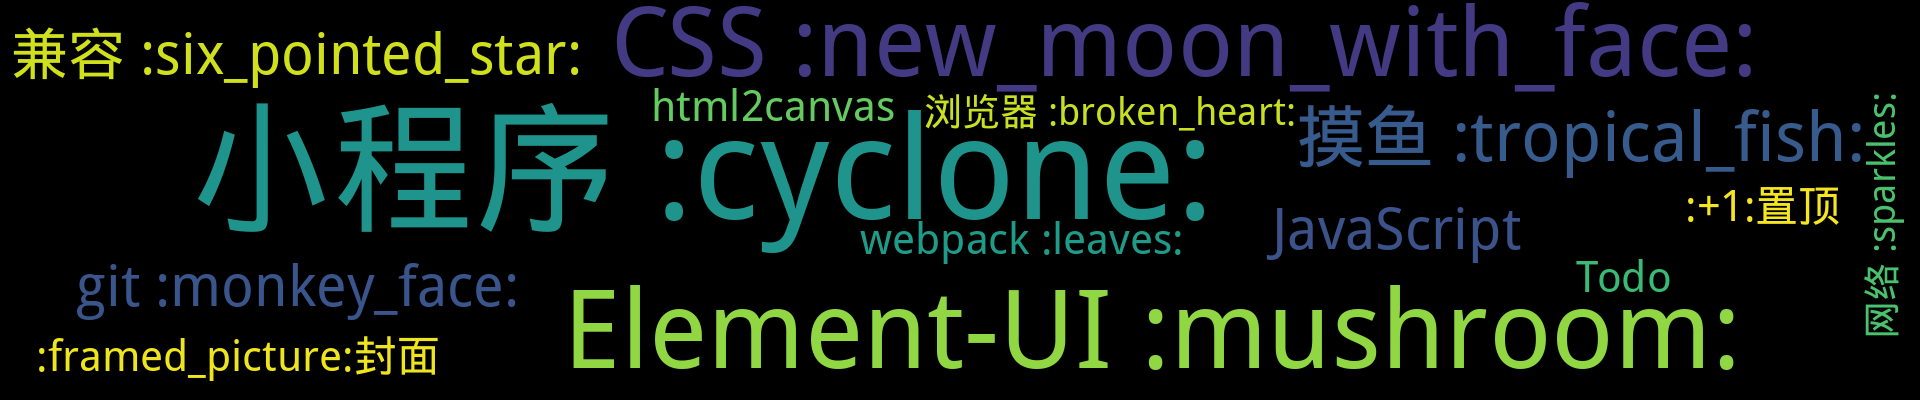
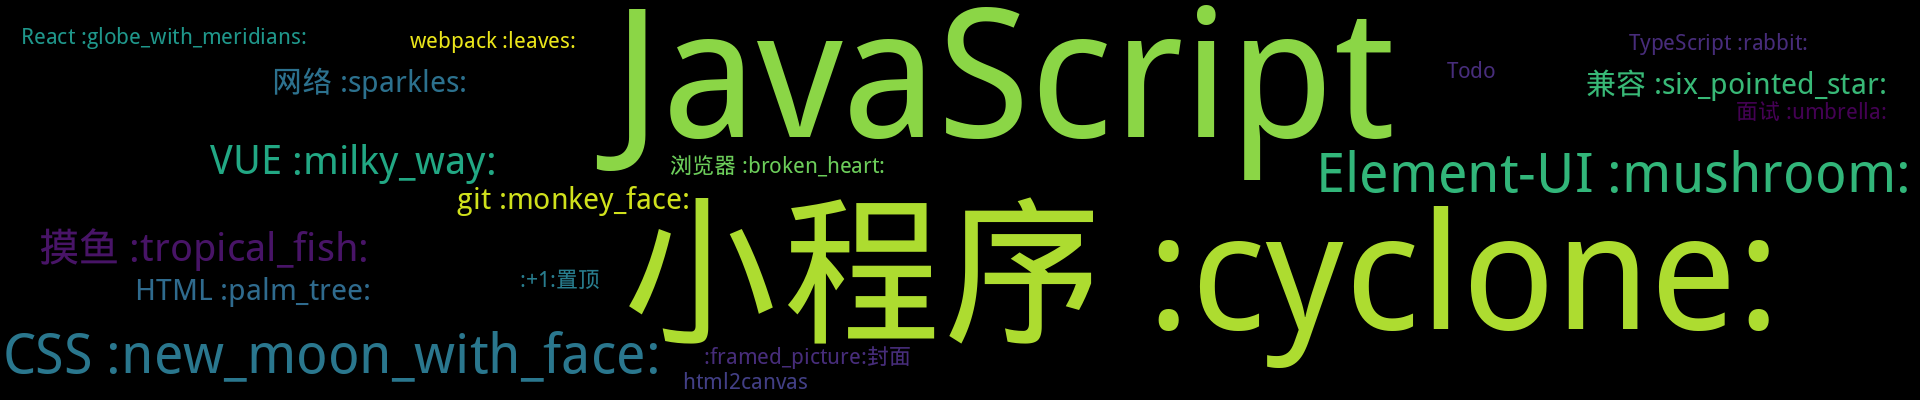
Update from Github Action

Changed region(s): [[0.0, 0.0, 1.0, 0.99], [0.9688, 0.66, 1.0, 0.84]]

diff --git a/README.md b/README.md
@@ -1,9 +1,9 @@
 
 
 <p align='center'>
-    <img src="https://badgen.net/badge/labels/25"/>
+    <img src="https://badgen.net/badge/labels/28"/>
     <img src="https://badgen.net/github/issues/smileyby/ghiblog"/>
-    <img src="https://badgen.net/badge/last-commit/2021-05-25 10:14:50"/>
+    <img src="https://badgen.net/badge/last-commit/2021-05-26 01:34:14"/>
     <img src="https://badgen.net/github/forks/smileyby/ghiblog"/>
     <img src="https://badgen.net/github/stars/smileyby/ghiblog"/>
     <img src="https://badgen.net/github/watchers/smileyby/ghiblog"/>
@@ -17,65 +17,92 @@
 </p>
 
 
+
+<p align='center'>
+<a href='https://github.com/smileyby/notes-copy/issues/1#issuecomment-848390534'>
+<img src='https://user-images.githubusercontent.com/16968442/119589467-6e535100-be05-11eb-8847-0131eb266158.png' width='50%' alt='
+[ Shine]'>
+</a>
+</p>
+<p align='center'>
+<span>
+[ Shine]</span>
+</p>
+
+    
 ## 置顶 :thumbsup: 
-- [封面图](https://github.com/smileyby/notes-copy/issues/1)  <sup>0 :speech_balloon:</sup>  	 
+- [封面图](https://github.com/smileyby/notes-copy/issues/1)  <sup>1 :speech_balloon:</sup>  	 
 ## 最新 :new: 
 
-#### [CSS：主题快捷切换](https://github.com/smileyby/notes-copy/issues/55) <sup>0 :speech_balloon:</sup> 	 2021-05-25 10:14:21
+#### [网络：HTTP状态码](https://github.com/smileyby/notes-copy/issues/88) <sup>0 :speech_balloon:</sup> 	 2021-05-25 10:41:11
 
-:label: : [CSS :new_moon_with_face:](https://github.com/smileyby/ghiblog/labels/CSS%20%3Anew_moon_with_face%3A)
+:label: : [网络 :sparkles:](https://github.com/smileyby/ghiblog/labels/%E7%BD%91%E7%BB%9C%20%3Asparkles%3A)
 
-https://uglyduck.ca/quick-dirty-theme-switcher/
+## HTTP状态码（HTTP STATUS CODE）
 
-[更多>>>](https://github.com/smileyby/notes-copy/issues/55)
+> HTTP状态码：是用以表示网页服务器超文本传输协议响应状态的3位数字代码。它是由RFC2616规范定义的，并得到REC2518、RFC2817、RFC2295、RFC2774与RFC4918等规范扩展。所有状态码的第一个数字代表响应
 
----
-
-
-#### [CSS：flex两栏布局，不设置父元素宽度，内部子元素会超出](https://github.com/smileyby/notes-copy/issues/54) <sup>0 :speech_balloon:</sup> 	 2021-05-25 10:13:56
-
-:label: : [CSS :new_moon_with_face:](https://github.com/smileyby/ghiblog/labels/CSS%20%3Anew_moon_with_face%3A)
-
-https://blog.csdn.net/zgh0711/article/details/78270555?utm_source=blogxgwz9
-
-[更多>>>](https://github.com/smileyby/notes-copy/issues/54)
+[更多>>>](https://github.com/smileyby/notes-copy/issues/88)
 
 ---
 
 
-#### [CSS：炫酷的CSS效果](https://github.com/smileyby/notes-copy/issues/53) <sup>0 :speech_balloon:</sup> 	 2021-05-25 10:13:33
+#### [JS：class类声明的静态方法只能内部使用](https://github.com/smileyby/notes-copy/issues/87) <sup>0 :speech_balloon:</sup> 	 2021-05-25 10:40:14
 
-:label: : [CSS :new_moon_with_face:](https://github.com/smileyby/ghiblog/labels/CSS%20%3Anew_moon_with_face%3A)
-
-https://juejin.im/post/5efab10ff265da22e610d2d0
-
-[更多>>>](https://github.com/smileyby/notes-copy/issues/53)
-
----
+:label: : [JavaScript](https://github.com/smileyby/ghiblog/labels/JavaScript)
 
 
-#### [CSS：font-weight 设置数值在不同浏览器中解析效果不一致](https://github.com/smileyby/notes-copy/issues/52) <sup>0 :speech_balloon:</sup> 	 2021-05-25 10:13:09
+class Chameleon {
+    static colorChange(newColor) {
+        this.newColor = newColor
+        return this.newColor
+    }
+    constructor({newCo
 
-:label: : [CSS :new_moon_with_face:](https://github.com/smileyby/ghiblog/labels/CSS%20%3Anew_moon_with_face%3A)
-
-/* 原本以为这是加粗效果，但在部分浏览器中并不是加粗 */
-font-weight: 700;
-
-/* 如果想要加粗效果, 靠谱写法如下 */
-font-weight: bold;
-
-[更多>>>](https://github.com/smileyby/notes-copy/issues/52)
+[更多>>>](https://github.com/smileyby/notes-copy/issues/87)
 
 ---
 
 
-#### [CSS：图片加载失败兜底方案实现--转自张鑫旭博客](https://github.com/smileyby/notes-copy/issues/51) <sup>0 :speech_balloon:</sup> 	 2021-05-25 10:12:45
+#### [JS：模板字符串的扩展功能-实现函数调用](https://github.com/smileyby/notes-copy/issues/86) <sup>0 :speech_balloon:</sup> 	 2021-05-25 10:39:31
 
-:label: : [CSS :new_moon_with_face:](https://github.com/smileyby/ghiblog/labels/CSS%20%3Anew_moon_with_face%3A)
+:label: : [JavaScript](https://github.com/smileyby/ghiblog/labels/JavaScript)
 
-参考链接：https://www.zhangxinxu.com/study/202010/image-error-show-alt-demo.php
+function getPersonInfo(one, two, three) {
+  console.log(one);
+  console.log(two);
+  console.log(three);
+}
 
-[更多>>>](https://github.com/smileyby/notes-copy/issues/51)
+const person = 'Lydia';
+const age = 
+
+[更多>>>](https://github.com/smileyby/notes-copy/issues/86)
+
+---
+
+
+#### [JS：localStorage 分域名存储](https://github.com/smileyby/notes-copy/issues/85) <sup>0 :speech_balloon:</sup> 	 2021-05-25 10:37:15
+
+:label: : [JavaScript](https://github.com/smileyby/ghiblog/labels/JavaScript)
+
+localStorage 存储的值，是根据域名进行隔离的，不同域名下不会互相影响
+
+[更多>>>](https://github.com/smileyby/notes-copy/issues/85)
+
+---
+
+
+#### [JS：canvas动态获取绘制文字的宽度 CanvasRenderingContext2D.measureText()](https://github.com/smileyby/notes-copy/issues/84) <sup>0 :speech_balloon:</sup> 	 2021-05-25 10:36:47
+
+:label: : [JavaScript](https://github.com/smileyby/ghiblog/labels/JavaScript)
+
+场景：项目海报生成的同一行文字，字体大小不同，根据设计稿给定位置绘制后会发生重叠
+需要检测前一串文字的长度，动态计算后面文字的位置
+方案：CanvasRenderingContext2D.measureText() 这个方法完美解决，而且兼容性还棒棒哒
+参考：https://developer
+
+[更多>>>](https://github.com/smileyby/notes-copy/issues/84)
 
 ---
 
@@ -92,7 +119,7 @@ font-weight: bold;
 <details>
 <summary>:+1:置顶	<sup>1:newspaper:</sup></summary>
 
-- [封面图](https://github.com/smileyby/notes-copy/issues/1)  <sup>0 :speech_balloon:</sup>  	 
+- [封面图](https://github.com/smileyby/notes-copy/issues/1)  <sup>1 :speech_balloon:</sup>  	 
 
 
 </details>
@@ -100,7 +127,7 @@ font-weight: bold;
 <details>
 <summary>:framed_picture:封面	<sup>1:newspaper:</sup></summary>
 
-- [封面图](https://github.com/smileyby/notes-copy/issues/1)  <sup>0 :speech_balloon:</sup>  	 
+- [封面图](https://github.com/smileyby/notes-copy/issues/1)  <sup>1 :speech_balloon:</sup>  	 
 
 
 </details>
@@ -113,8 +140,10 @@ font-weight: bold;
 </details>
 
 <details>
-<summary>CSS :new_moon_with_face:	<sup>7:newspaper:</sup></summary>
+<summary>CSS :new_moon_with_face:	<sup>9:newspaper:</sup></summary>
 
+- [CSS：object-fit](https://github.com/smileyby/notes-copy/issues/58)  <sup>0 :speech_balloon:</sup>  	 
+- [CSS：border绘制不同的图形](https://github.com/smileyby/notes-copy/issues/57)  <sup>0 :speech_balloon:</sup>  	 
 - [CSS：各大网站实现灰度的方法](https://github.com/smileyby/notes-copy/issues/56)  <sup>0 :speech_balloon:</sup>  	 
 - [CSS：主题快捷切换](https://github.com/smileyby/notes-copy/issues/55)  <sup>0 :speech_balloon:</sup>  	 
 - [CSS：flex两栏布局，不设置父元素宽度，内部子元素会超出](https://github.com/smileyby/notes-copy/issues/54)  <sup>0 :speech_balloon:</sup>  	 
@@ -143,15 +172,36 @@ font-weight: bold;
 </details>
 
 <details>
-<summary>HTML :palm_tree:	<sup>0:newspaper:</sup></summary>
+<summary>HTML :palm_tree:	<sup>2:newspaper:</sup></summary>
 
+- [HTML：Unicode 编码的用途](https://github.com/smileyby/notes-copy/issues/77)  <sup>0 :speech_balloon:</sup>  	 
+- [HTML：实现a元素href URL链接自动刷新或新窗口打开](https://github.com/smileyby/notes-copy/issues/69)  <sup>0 :speech_balloon:</sup>  	 
 
 
 </details>
 
 <details>
-<summary>JavaScript	<sup>2:newspaper:</sup></summary>
+<summary>JavaScript	<sup>21:newspaper:</sup></summary>
 
+- [JS：class类声明的静态方法只能内部使用](https://github.com/smileyby/notes-copy/issues/87)  <sup>0 :speech_balloon:</sup>  	 
+- [JS：模板字符串的扩展功能-实现函数调用](https://github.com/smileyby/notes-copy/issues/86)  <sup>0 :speech_balloon:</sup>  	 
+- [JS：localStorage 分域名存储](https://github.com/smileyby/notes-copy/issues/85)  <sup>0 :speech_balloon:</sup>  	 
+- [JS：canvas动态获取绘制文字的宽度 CanvasRenderingContext2D.measureText()](https://github.com/smileyby/notes-copy/issues/84)  <sup>0 :speech_balloon:</sup>  	 
+- [JS：safari浏览器禁止多指操作默认事件，并解决图片长按放大问题](https://github.com/smileyby/notes-copy/issues/83)  <sup>0 :speech_balloon:</sup>  	 
+- [JS：判断一个对象会否存在循环引用，直接使用JSON.stringify](https://github.com/smileyby/notes-copy/issues/82)  <sup>0 :speech_balloon:</sup>  	 
+- [JS：获取月份最后一天](https://github.com/smileyby/notes-copy/issues/81)  <sup>0 :speech_balloon:</sup>  	 
+- [JS：Number 最大值 Math.pow(2, 53) ](https://github.com/smileyby/notes-copy/issues/80)  <sup>0 :speech_balloon:</sup>  	 
+- [JS：关于websocket的心跳检测](https://github.com/smileyby/notes-copy/issues/79)  <sup>0 :speech_balloon:</sup>  	 
+- [JS：eval() 替代方法](https://github.com/smileyby/notes-copy/issues/78)  <sup>0 :speech_balloon:</sup>  	 
+- [JS：计算精度问题](https://github.com/smileyby/notes-copy/issues/68)  <sup>0 :speech_balloon:</sup>  	 
+- [JS：import命令是编译阶段执行的，在代码运行之前](https://github.com/smileyby/notes-copy/issues/67)  <sup>0 :speech_balloon:</sup>  	 
+- [JS：padStart](https://github.com/smileyby/notes-copy/issues/66)  <sup>0 :speech_balloon:</sup>  	 
+- [JS：用includes方法替代或判断，替代indexOf方法](https://github.com/smileyby/notes-copy/issues/65)  <sup>0 :speech_balloon:</sup>  	 
+- [JS：String与new String](https://github.com/smileyby/notes-copy/issues/64)  <sup>0 :speech_balloon:</sup>  	 
+- [JS：获取某一天的前三天和后三天的日期](https://github.com/smileyby/notes-copy/issues/63)  <sup>0 :speech_balloon:</sup>  	 
+- [JavaScript：window.history](https://github.com/smileyby/notes-copy/issues/61)  <sup>0 :speech_balloon:</sup>  	 
+- [ES6：Set:](https://github.com/smileyby/notes-copy/issues/60)  <sup>0 :speech_balloon:</sup>  	 
+- [ES7：?? 空值合并操作符](https://github.com/smileyby/notes-copy/issues/59)  <sup>0 :speech_balloon:</sup>  	 
 - [JavaScript：URLSearchParams 解析地址栏参数](https://github.com/smileyby/notes-copy/issues/32)  <sup>0 :speech_balloon:</sup>  	 
 - [JavaScript：可迭代对象的两个必要条件](https://github.com/smileyby/notes-copy/issues/31)  <sup>0 :speech_balloon:</sup>  	 
 
@@ -166,8 +216,9 @@ font-weight: bold;
 </details>
 
 <details>
-<summary>React :globe_with_meridians:	<sup>0:newspaper:</sup></summary>
+<summary>React :globe_with_meridians:	<sup>1:newspaper:</sup></summary>
 
+- [React 项目配置less](https://github.com/smileyby/notes-copy/issues/74)  <sup>0 :speech_balloon:</sup>  	 
 
 
 </details>
@@ -181,15 +232,20 @@ font-weight: bold;
 </details>
 
 <details>
-<summary>TypeScript :rabbit:	<sup>0:newspaper:</sup></summary>
+<summary>TypeScript :rabbit:	<sup>1:newspaper:</sup></summary>
 
+- [TS：vscode安装完typescript执行tsc报错](https://github.com/smileyby/notes-copy/issues/75)  <sup>0 :speech_balloon:</sup>  	 
 
 
 </details>
 
 <details>
-<summary>VUE :milky_way:	<sup>0:newspaper:</sup></summary>
+<summary>VUE :milky_way:	<sup>4:newspaper:</sup></summary>
 
+- [[Vue warn]: Templates should only be responsible for mapping the state to the UI](https://github.com/smileyby/notes-copy/issues/73)  <sup>0 :speech_balloon:</sup>  	 
+- [[Vue warn]: Avoid mutating a prop directly since the value will be overwritten whenever the parent component re-renders. Instead, use a data or computed property based on the prop's value.](https://github.com/smileyby/notes-copy/issues/72)  <sup>0 :speech_balloon:</sup>  	 
+- [VUE：Warn : [vue-router] Duplicate named routes definition](https://github.com/smileyby/notes-copy/issues/71)  <sup>0 :speech_balloon:</sup>  	 
+- [VUE：vue-cli · Failed to download repo vuejs-templates/webpack: getaddrinfo ENOTFOUND github.com github.com:443](https://github.com/smileyby/notes-copy/issues/70)  <sup>0 :speech_balloon:</sup>  	 
 
 
 </details>
@@ -267,8 +323,9 @@ font-weight: bold;
 </details>
 
 <details>
-<summary>摸鱼 :tropical_fish:	<sup>3:newspaper:</sup></summary>
+<summary>摸鱼 :tropical_fish:	<sup>4:newspaper:</sup></summary>
 
+- [摸鱼：1024-js代码排行](https://github.com/smileyby/notes-copy/issues/62)  <sup>0 :speech_balloon:</sup>  	 
 - [摸鱼：神兽](https://github.com/smileyby/notes-copy/issues/35)  <sup>0 :speech_balloon:</sup>  	 
 - [摸鱼：漫画-我要摆地摊](https://github.com/smileyby/notes-copy/issues/34)  <sup>0 :speech_balloon:</sup>  	 
 - [摸鱼：推荐电影](https://github.com/smileyby/notes-copy/issues/33)  <sup>0 :speech_balloon:</sup>  	 
@@ -284,6 +341,13 @@ font-weight: bold;
 </details>
 
 <details>
+<summary>每日趣闻	<sup>0:newspaper:</sup></summary>
+
+
+
+</details>
+
+<details>
 <summary>浏览器 :broken_heart:	<sup>1:newspaper:</sup></summary>
 
 - [Chrome：Chrome 团队计划冻结浏览器请求的 User-Agent 字段，改用一个新的 API 取代 ](https://github.com/smileyby/notes-copy/issues/36)  <sup>0 :speech_balloon:</sup>  	 
@@ -292,8 +356,23 @@ font-weight: bold;
 </details>
 
 <details>
-<summary>网络 :sparkles:	<sup>1:newspaper:</sup></summary>
+<summary>程序员段子	<sup>0:newspaper:</sup></summary>
 
+
+
+</details>
+
+<details>
+<summary>程序员表情包	<sup>0:newspaper:</sup></summary>
+
+
+
+</details>
+
+<details>
+<summary>网络 :sparkles:	<sup>2:newspaper:</sup></summary>
+
+- [网络：HTTP状态码](https://github.com/smileyby/notes-copy/issues/88)  <sup>0 :speech_balloon:</sup>  	 
 - [TCP 三次/四次握手](https://github.com/smileyby/notes-copy/issues/39)  <sup>0 :speech_balloon:</sup>  	 
 
 
@@ -307,8 +386,9 @@ font-weight: bold;
 </details>
 
 <details>
-<summary>面试 :umbrella:	<sup>0:newspaper:</sup></summary>
+<summary>面试 :umbrella:	<sup>1:newspaper:</sup></summary>
 
+- [面试：作用域](https://github.com/smileyby/notes-copy/issues/76)  <sup>0 :speech_balloon:</sup>  	 
 
 
 </details>
